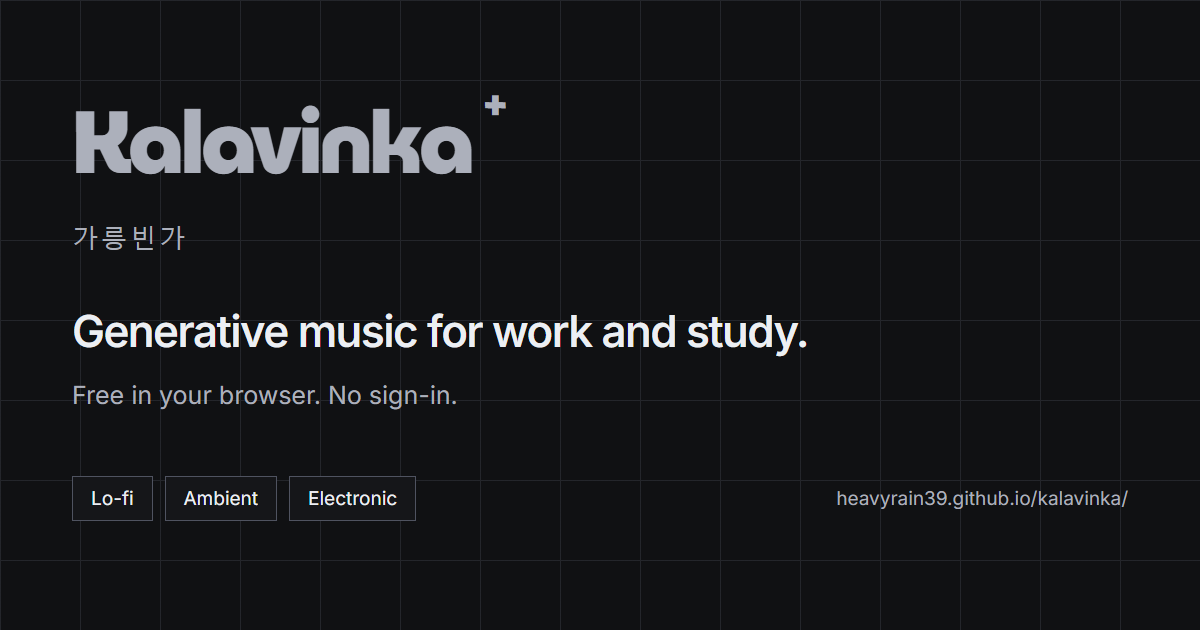
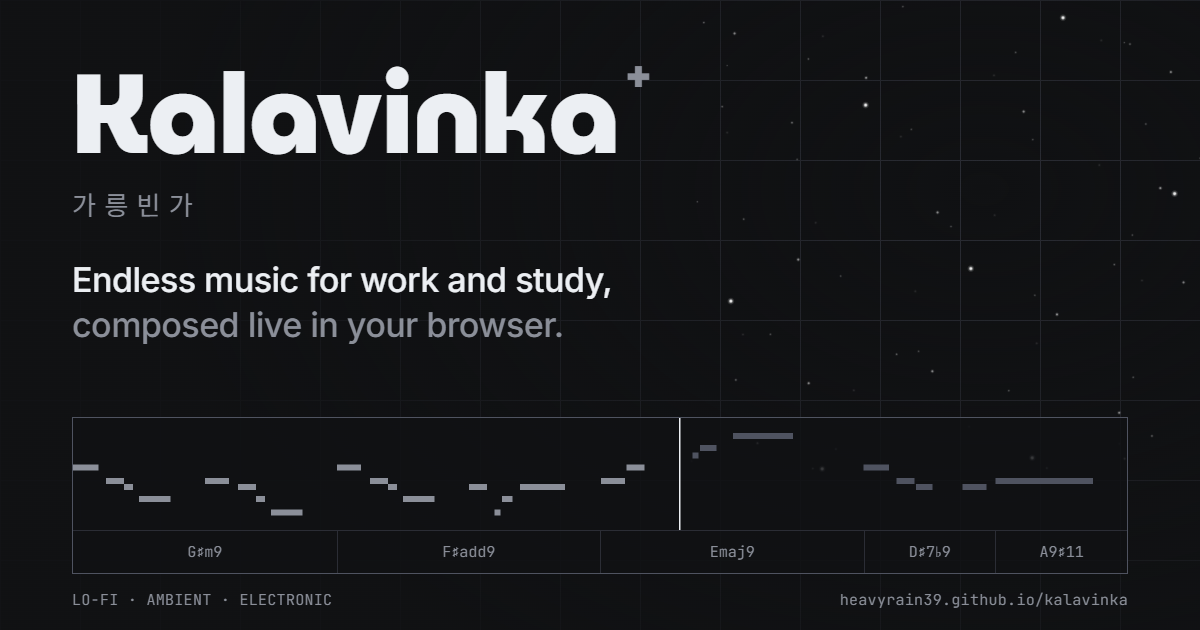
Draw the social card from the app's own ribbon and sky
The old card was the wordmark and a line of text. The new one shows a real
eight-bar phrase of the default song on the app's piano-roll ribbon, its
chord lane and the starfield, under the wordmark and "Endless music for work
and study, composed live in your browser."

scripts/social-card.mjs renders it with the app's own drawing code
(scripts/social-card.html and .ts) through Vite and Playwright, falling back
to the system's Chrome or Edge when Playwright's Chromium is not installed.

The image alt text follows the new card, and the WebApplication JSON-LD now
names the image, the author, the feature list and that the app is free.

diff --git a/scripts/social-card.html b/scripts/social-card.html
@@ -1,0 +1,40 @@
+<!doctype html>
+<html lang="en" data-theme-mode="dark">
+  <head>
+    <meta charset="UTF-8" />
+    <title>Kalavinka social card</title>
+    <style>
+      html, body { width: 1200px; height: 630px; overflow: hidden; }
+      body { background-size: 60px 60px; background-position: -1px -1px; }
+      .card { position: relative; width: 1200px; height: 630px; padding: 64px 72px 0; overflow: hidden;
+        background: radial-gradient(ellipse 70% 90% at 82% 30%, rgba(16,17,19,0) 0%, rgba(16,17,19,.55) 55%, rgba(16,17,19,.9) 100%); }
+      .sky { position: absolute; top: -40px; right: -10px; width: 520px; height: 520px; }
+      .mark { position: relative; display: inline-flex; align-items: flex-start; font-family: var(--font-logo); font-weight: 850;
+        letter-spacing: -.055em; line-height: .9; color: var(--text); }
+      .mark .name { font-size: 112px; }
+      .mark .cross { font-size: 44px; margin: -6px 0 0 6px; color: var(--text-dim); }
+      .ko { margin-top: 18px; font-family: 'Pretendard Variable', 'Noto Sans KR', 'Malgun Gothic', sans-serif; font-size: 26px;
+        letter-spacing: .32em; color: var(--text-dim); }
+      .line { margin-top: 34px; font-size: 34px; line-height: 1.3; font-weight: 500; letter-spacing: -.015em; color: var(--text); }
+      .line span { color: var(--text-dim); }
+      .card-deck { position: absolute; left: 72px; right: 72px; bottom: 56px; border: 1px solid var(--line-strong); background: rgba(16,17,19,.82); }
+      .roll { display: block; width: 100%; height: 112px; }
+      .lane { display: grid; grid-template-columns: repeat(8, minmax(0,1fr)); border-top: 1px solid var(--line); }
+      .lane div { padding: 9px 4px; text-align: center; font-family: var(--font-mono); font-size: 15px; color: var(--text-dim); white-space: nowrap; }
+      .lane div + div { border-left: 1px solid var(--line); }
+      .meta { position: absolute; left: 72px; right: 72px; bottom: 18px; display: flex; justify-content: space-between;
+        font-family: var(--font-mono); font-size: 15px; color: var(--text-dim); letter-spacing: .02em; }
+    </style>
+  </head>
+  <body>
+    <div class="card">
+      <canvas class="sky" id="sky"></canvas>
+      <div class="mark"><span class="name">Kalavinka</span><span class="cross">+</span></div>
+      <div class="ko" lang="ko">가릉빈가</div>
+      <p class="line">Endless music for work and study,<br /><span>composed live in your browser.</span></p>
+      <div class="card-deck"><canvas class="roll" id="roll"></canvas><div class="lane" id="lane"></div></div>
+      <div class="meta"><span>LO-FI · AMBIENT · ELECTRONIC</span><span>heavyrain39.github.io/kalavinka</span></div>
+    </div>
+    <script type="module" src="./social-card.ts"></script>
+  </body>
+</html>

diff --git a/index.html b/index.html
@@ -19,12 +19,12 @@
     <meta property="og:image:type" content="image/png" />
     <meta property="og:image:width" content="1200" />
     <meta property="og:image:height" content="630" />
-    <meta property="og:image:alt" content="Kalavinka — generative work music with lo-fi, ambient and electronic moods." />
+    <meta property="og:image:alt" content="Kalavinka — a generated melody on a piano roll over its chords: endless music for work and study, composed live in your browser." />
     <meta name="twitter:card" content="summary_large_image" />
     <meta name="twitter:title" content="Kalavinka · 가릉빈가 — Free generative work music" />
     <meta name="twitter:description" content="Generate free background music for work and study in your browser. Choose lo-fi, ambient or electronic moods, adjust the mix, and save phrases. No sign-in." />
     <meta name="twitter:image" content="https://heavyrain39.github.io/kalavinka/social-card.png" />
-    <meta name="twitter:image:alt" content="Kalavinka — generative work music with lo-fi, ambient and electronic moods." />
+    <meta name="twitter:image:alt" content="Kalavinka — a generated melody on a piano roll over its chords: endless music for work and study, composed live in your browser." />
     <link rel="icon" type="image/svg+xml" href="./favicon.svg" />
     <title>Kalavinka · 가릉빈가 — Free generative work music</title>
     <script type="application/ld+json">
@@ -39,6 +39,11 @@
         "operatingSystem": "Web browser",
         "browserRequirements": "Requires JavaScript and Web Audio API support.",
         "inLanguage": ["en", "ko"],
+        "image": "https://heavyrain39.github.io/kalavinka/social-card.png",
+        "isAccessibleForFree": true,
+        "offers": { "@type": "Offer", "price": "0", "priceCurrency": "USD" },
+        "featureList": ["Lo-fi, ambient and electronic moods", "Music composed and synthesized live in the browser", "Per-part sounds and mutes", "Save eight-bar phrases", "Share music settings by link", "Focus timer"],
+        "author": { "@type": "Person", "name": "Yakshawan", "url": "https://heavyrain39.github.io/portfolio/" },
         "license": "https://heavyrain39.github.io/kalavinka/LICENSE.txt"
       }
     </script>

diff --git a/scripts/social-card.ts b/scripts/social-card.ts
@@ -1,0 +1,30 @@
+// Copyright (C) 2026 Yakshawan. All rights reserved. See LICENSE.
+// The social card (public/social-card.png): the app's own ribbon, chord lane and sky, drawn from
+// a real phrase of the default song. Rendered by scripts/social-card.mjs.
+import '../src/style.css';
+import { DEFAULTS } from '../src/music';
+import { capturePhrase } from '../src/saved-phrase';
+import { ribbonLayout, drawRibbon } from '../src/ribbon';
+import { Starfield } from '../src/starfield';
+
+const start = Number(new URLSearchParams(location.search).get('bar') ?? 24);
+const phrase = capturePhrase({ settings: { ...DEFAULTS }, opening: true }, start);
+const style = getComputedStyle(document.documentElement), token = (name: string) => style.getPropertyValue(name);
+
+await document.fonts.ready;
+// Drawn at 1/1.5 scale and enlarged, so the notes are thick enough to read in a small preview.
+const roll = document.querySelector<HTMLCanvasElement>('#roll')!, zoom = 1.5, width = roll.clientWidth / zoom, height = roll.clientHeight / zoom;
+roll.width = roll.clientWidth * 2; roll.height = roll.clientHeight * 2;
+const context = roll.getContext('2d')!;
+context.setTransform(2 * zoom, 0, 0, 2 * zoom, 0, 0);
+// The playhead stands in the fifth bar: the notes behind it are lit, as while the music plays.
+drawRibbon(context, width, height, ribbonLayout(phrase.events), { position: 4.6, samples: null,
+  colors: { dim: token('--line-strong'), mid: token('--text-dim'), bright: token('--text') } });
+
+const runs: { label: string; length: number }[] = [];
+for (const chord of phrase.chords) { const last = runs.at(-1); if (last?.label === chord.label) last.length++; else runs.push({ label: chord.label, length: 1 }); }
+document.querySelector('#lane')!.append(...runs.map(run => Object.assign(document.createElement('div'), { textContent: run.label, style: `grid-column: span ${run.length}` })));
+
+const sky = new Starfield(document.querySelector<HTMLCanvasElement>('#sky')!);
+for (let frame = 0; frame < 90; frame++) sky.draw(frame * 1000 / 30, null, false);
+document.body.dataset.ready = 'true';
